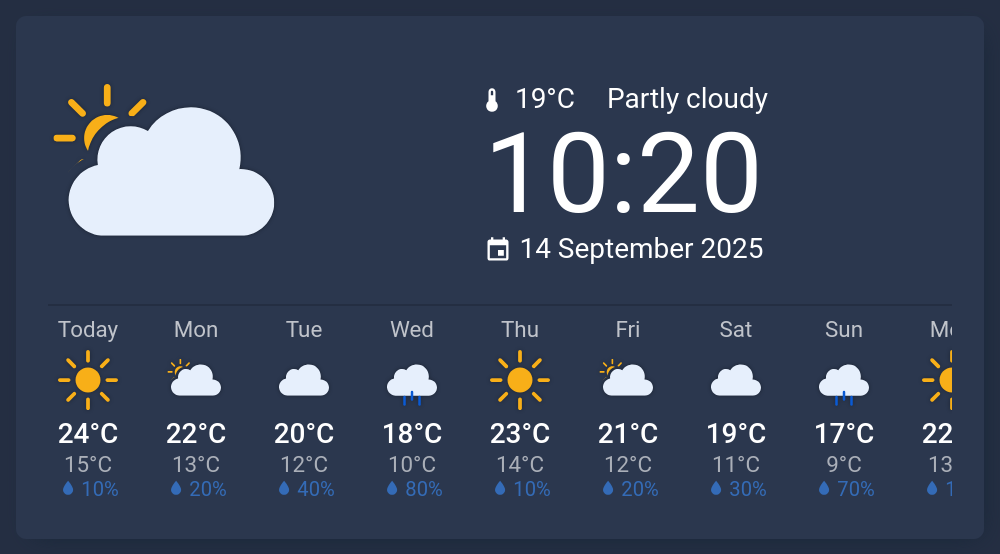
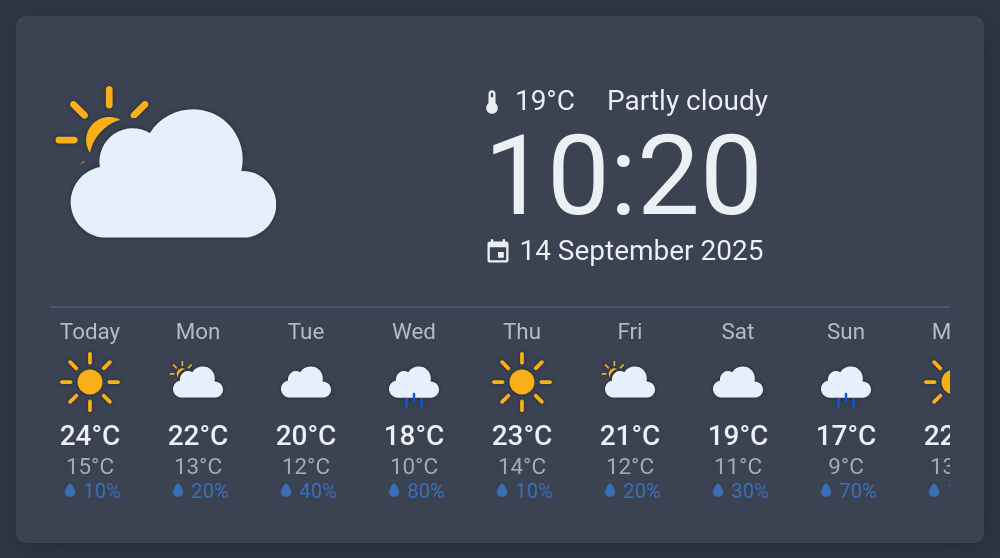
docs: replace the Noctis preview theme with Nordic
Noctis publishes a mistagged 3.32 tag that Renovate treats as newer than
3.3.5, which needed a dedicated packageRule. Nordic has clean semver tags,
so the rule goes away.

diff --git a/README.md b/README.md
@@ -110,7 +110,7 @@ sections:
 **Header and daily strip** - the strip shows the coming days instead of hours, with `flat` icons.
 
 <!-- preview: example-daily-strip
-theme: { repo: aFFekopp/noctis, version: 3.3.5, name: noctis }
+theme: { repo: coltondick/nordic-theme-main, version: v2.3.9, name: nordic }
 dark: true
 weather: { state: partlycloudy, temperature: 19 }
 -->
@@ -129,7 +129,7 @@ sections:
 
 ![The header above a daily forecast strip](docs/previews/example-daily-strip.png)
 
-*[Noctis](https://github.com/aFFekopp/noctis/tree/3.3.5)*
+*[Nordic](https://github.com/coltondick/nordic-theme-main/tree/v2.3.9)*
 
 </td></tr>
 <tr><td>
